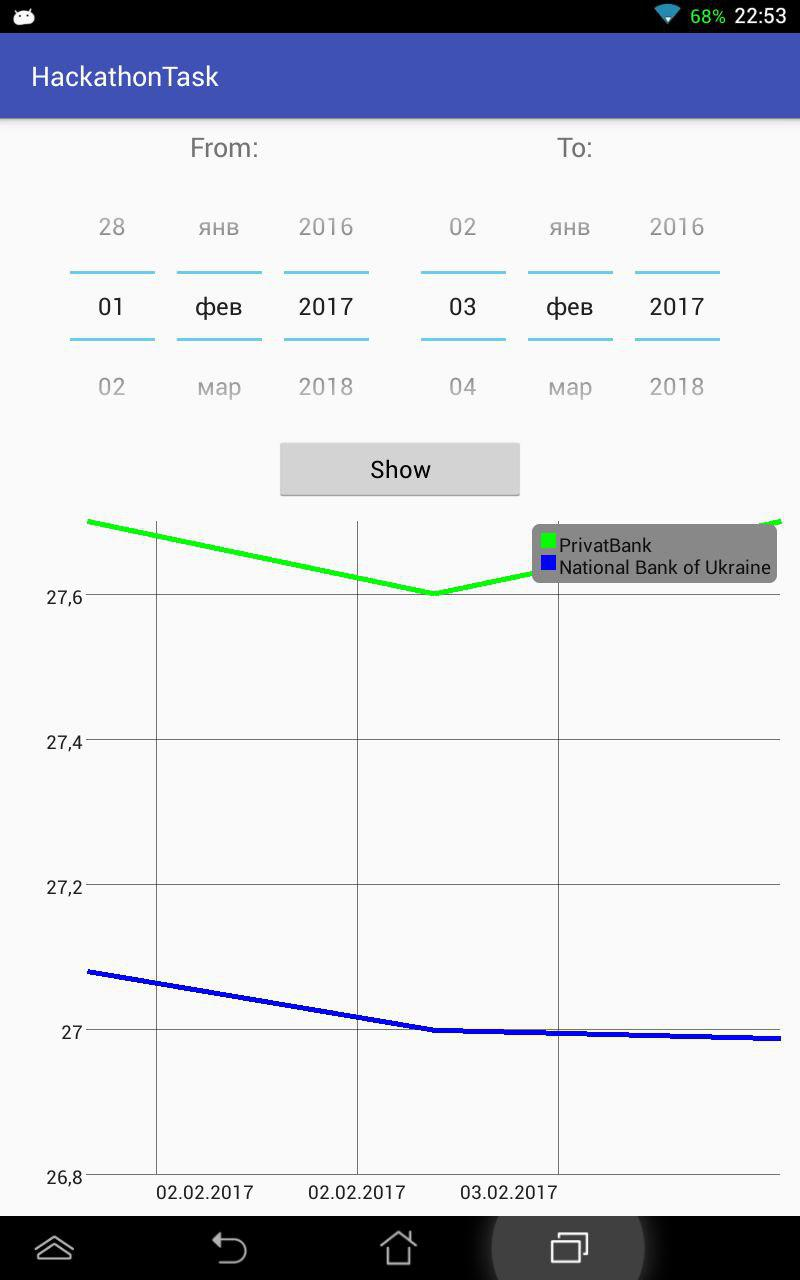
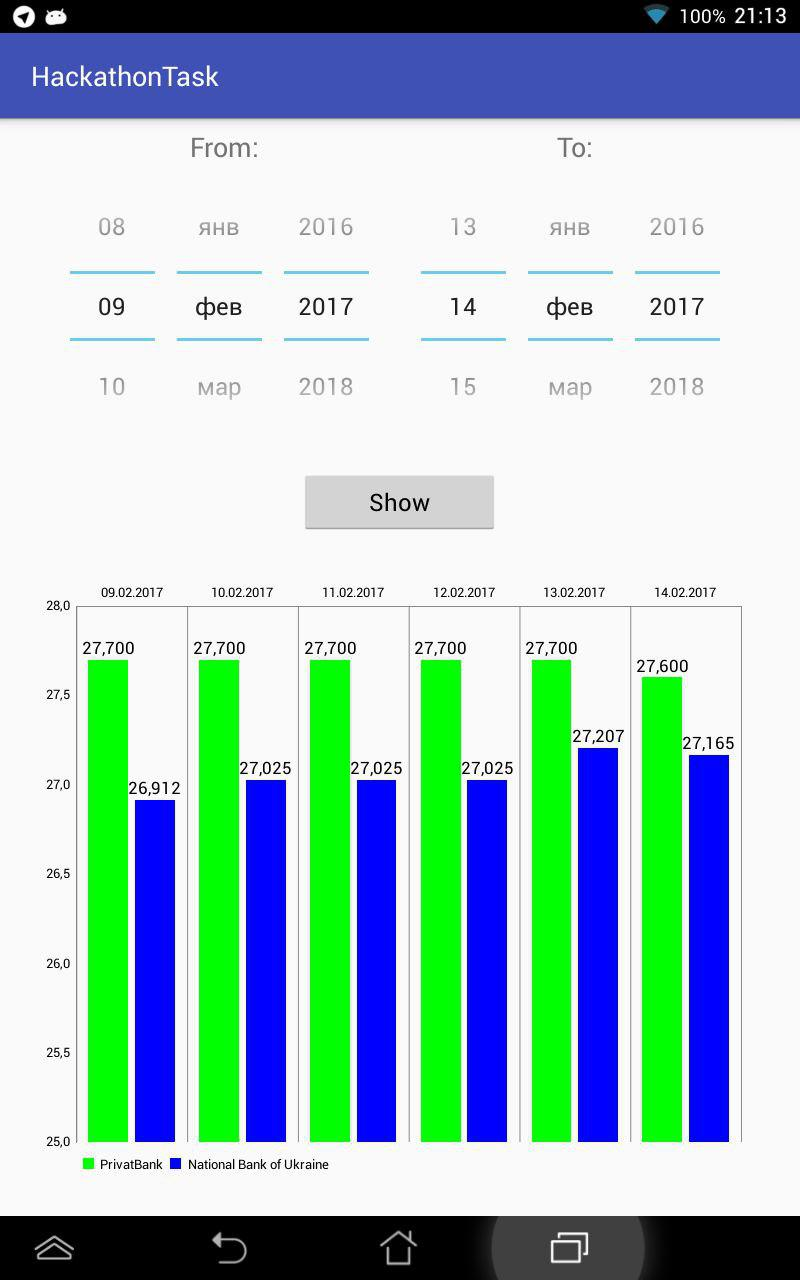
Cleanup

diff --git a/app/src/main/kotlin/dika/hackathontask/MainActivity.kt b/app/src/main/kotlin/dika/hackathontask/MainActivity.kt
@@ -4,145 +4,141 @@ import android.graphics.Color
 import android.os.Bundle
 import android.support.v7.app.AppCompatActivity
 import android.view.Gravity
+import android.view.ViewManager
 import android.widget.DatePicker
 import com.github.kittinunf.fuel.android.extension.responseJson
 import com.github.kittinunf.fuel.httpGet
-import com.jjoe64.graphview.GraphView
-import com.jjoe64.graphview.LegendRenderer
-import com.jjoe64.graphview.helper.DateAsXAxisLabelFormatter
-import com.jjoe64.graphview.series.DataPoint
-import com.jjoe64.graphview.series.LineGraphSeries
+import com.github.mikephil.charting.charts.BarChart
+import com.github.mikephil.charting.data.BarData
+import com.github.mikephil.charting.data.BarDataSet
+import com.github.mikephil.charting.data.BarEntry
+import com.github.mikephil.charting.interfaces.datasets.IBarDataSet
 import org.jetbrains.anko.*
+import org.jetbrains.anko.custom.ankoView
 import java.text.SimpleDateFormat
 import java.util.*
 
+const val privatbankAPI = "https://api.privatbank.ua/p24api/exchange_rates"
+const val dayInMillis: Long = 1000 * 60 * 60 * 24
+
 class MainActivity : AppCompatActivity() {
+    private val dateFormat = SimpleDateFormat("dd.MM.yyyy", Locale.getDefault())
+    private val calendar = Calendar.getInstance()
+
+    private lateinit var pckFrom: DatePicker
+    private lateinit var pckTo: DatePicker
+    private lateinit var chart: BarChart
+
+    private var from: Long = -1
+    private var to: Long = -1
+    private var days: Long = -1
+
     override fun onCreate(savedInstanceState: Bundle?) {
         super.onCreate(savedInstanceState)
-        MainActivityUI().setContentView(this)
-    }
-}
 
-@Suppress("DEPRECATION")
-class MainActivityUI : AnkoComponent<MainActivity> {
-    override fun createView(ui: AnkoContext<MainActivity>) =
-            with(ui) {
+        verticalLayout {
+            gravity = Gravity.CENTER
+
+            linearLayout {
+                gravity = Gravity.CENTER
+
                 verticalLayout {
-                    gravity = Gravity.CENTER
+                    lparams { margin = 10 }
+                    textView("From:") { gravity = Gravity.CENTER; textSize = 20f }
+                    pckFrom = datePicker { calendarViewShown = false }
+                }
 
-                    val graph = GraphView(ui.ctx)
+                verticalLayout {
+                    lparams { margin = 10 }
+                    textView("To:") { gravity = Gravity.CENTER; textSize = 20f }
+                    pckTo = datePicker { calendarViewShown = false }
+                }
+            }
 
-                    var fromPicker: DatePicker? = null
-                    var toPicker: DatePicker? = null
+            button("Show") {
+                lparams { margin = dip(10); width = dip(150) }
+                onClick {
+                    chart.data = null
 
-                    linearLayout {
-                        gravity = Gravity.CENTER
+                    from = pckFrom.millis
+                    to = pckTo.millis
 
-                        verticalLayout {
-                            textView("From:") { gravity = Gravity.CENTER; textSize = 20f }
-                            fromPicker = datePicker { calendarViewShown = false }
-                        }.lparams { margin = 10 }
+                    if (to < from) to = from
 
-                        verticalLayout {
-                            textView("To:") { gravity = Gravity.CENTER; textSize = 20f }
-                            toPicker = datePicker { calendarViewShown = false }
-                        }.lparams { margin = 10 }
-                    }
+                    days = (to - from) / dayInMillis + 1
 
-                    button("Show") {
-                        onClick {
-                            graph.removeAllSeries()
+                    doAsync {
+                        val pb = mutableListOf<BarEntry>()
+                        val nb = mutableListOf<BarEntry>()
 
-                            val from = Calendar.getInstance().apply {
-                                fromPicker!!.let { set(it.year, it.month, it.dayOfMonth) }
-                            }.time.time
+                        for (i in 0 until days) {
+                            val date = Date(from + i * dayInMillis)
 
-                            val to = Calendar.getInstance().apply {
-                                toPicker!!.let { set(it.year, it.month, it.dayOfMonth) }
-                            }.time.time
+                            val (request, response, result) = privatbankAPI
+                                    .httpGet(listOf("json" to "", "date" to dateFormat.format(date)))
+                                    .responseJson()
 
-                            val step: Long
-
-                            val delta = from - to
-                            if (delta > 1000 * 60 * 60 * 24 * cols) {
-                                step = delta / cols
-                            } else step = 1000 * 60 * 60 * 24
-
-                            val s = SimpleDateFormat("dd.MM.yyyy", Locale.getDefault())
-
-                            val pb = arrayOfNulls<DataPoint>(cols)
-                            val nb = arrayOfNulls<DataPoint>(cols)
-
-                            ui.doAsync {
-                                for (i in 0..cols - 1) {
-                                    val d = Date(from + step * i)
-
-                                    val (request, response, result) = p24.httpGet(
-                                            listOf(
-                                                    "json" to "",
-                                                    "date" to s.format(d)
-                                            )
-                                    ).responseJson()
-
-                                    println(result.get().content)
-
-                                    val arr = result.get().obj().getJSONArray("exchangeRate")
-                                    for (j in 0..arr.length() - 1) {
-                                        val obj = arr.getJSONObject(j)
-                                        if (obj.getString("currency") == "USD") {
-                                            pb[i] = DataPoint(d, obj.getDouble("saleRate"))
-                                            nb[i] = DataPoint(d, obj.getDouble("saleRateNB"))
-                                        }
-                                    }
-                                }
-
-                                activityUiThread {
-                                    graph.addSeries(LineGraphSeries(pb).apply {
-                                        title = "PrivatBank"
-                                        color = Color.GREEN
-                                    })
-
-                                    graph.addSeries(LineGraphSeries(nb).apply {
-                                        title = "National Bank of Ukraine"
-                                        color = Color.BLUE
-                                    })
-
-                                    graph.gridLabelRenderer.apply {
-                                        labelFormatter = DateAsXAxisLabelFormatter(graph.context)
-                                        numVerticalLabels = 5
-                                        numHorizontalLabels = cols
-//                                        isHumanRounding = false
-                                    }
-
-                                    graph.viewport.apply {
-                                        setMinX(pb.first()!!.x)
-                                        setMaxX(pb.last()!!.x)
-                                        isXAxisBoundsManual = true
-                                    }
-
-                                    graph.legendRenderer.apply {
-                                        isVisible = true
-                                        align = LegendRenderer.LegendAlign.TOP
-                                        backgroundColor = Color.GRAY
-                                    }
+                            val arr = result.get().obj().getJSONArray("exchangeRate")
+                            for (j in 0 until arr.length()) {
+                                val obj = arr.getJSONObject(j)
+                                if (obj.getString("currency") == "USD") {
+                                    pb.add(BarEntry(i.toFloat(), obj.getDouble("saleRate").toFloat()))
+                                    nb.add(BarEntry(i.toFloat(), obj.getDouble("saleRateNB").toFloat()))
                                 }
                             }
                         }
-                    }.lparams { topMargin = -20; width = 250 }
 
-                    addView(graph)
+                        uiThread {
+                            chart.apply {
+                                data = BarData(mutableListOf<IBarDataSet>(
+                                        BarDataSet(pb, "PrivatBank")
+                                                .apply { color = Color.GREEN },
+                                        BarDataSet(nb, "National Bank of Ukraine")
+                                                .apply { color = Color.BLUE }
+                                ))
+
+                                val groupSpace = 0.16f
+                                val barSpace = 0.06f
+                                val barWidth = 0.36f
+
+                                barData.barWidth = barWidth
+                                groupBars(0f, groupSpace, barSpace)
+
+                                xAxis.axisMaximum = days.toFloat()
+
+                                chart.invalidate()
+                            }
+                        }
+                    }
                 }
             }
-}
 
-const val p24 = "https://api.privatbank.ua/p24api/exchange_rates"
-const val cols = 3
+            chart = barChart {
+                lparams { margin = dip(30); width = matchParent; height = matchParent }
 
-/*
-    public class MainActivity extends AppCompatActivity {
-        @Override
-        protected void onCreate(Bundle savedInstanceState) {
-            super.onCreate(savedInstanceState);
+                description.isEnabled = false
+
+                xAxis.apply {
+                    axisMinimum = 0f
+                    setCenterAxisLabels(true)
+                    setValueFormatter { value, axisBase ->
+                        dateFormat.format(Date(from + value.toLong() * dayInMillis))
+                    }
+                }
+
+                axisLeft.apply {
+                    axisMinimum = 25f
+                    axisMaximum = 28f
+                    setDrawGridLines(false)
+                }
+
+                axisRight.isEnabled = false
+            }
         }
     }
-*/
+
+    val DatePicker.millis: Long get() = calendar.apply { set(year, month, dayOfMonth) }.time.time
+}
+
+inline fun ViewManager.barChart(theme: Int = 0, init: BarChart.() -> Unit)
+        = ankoView(::BarChart, theme, init)
